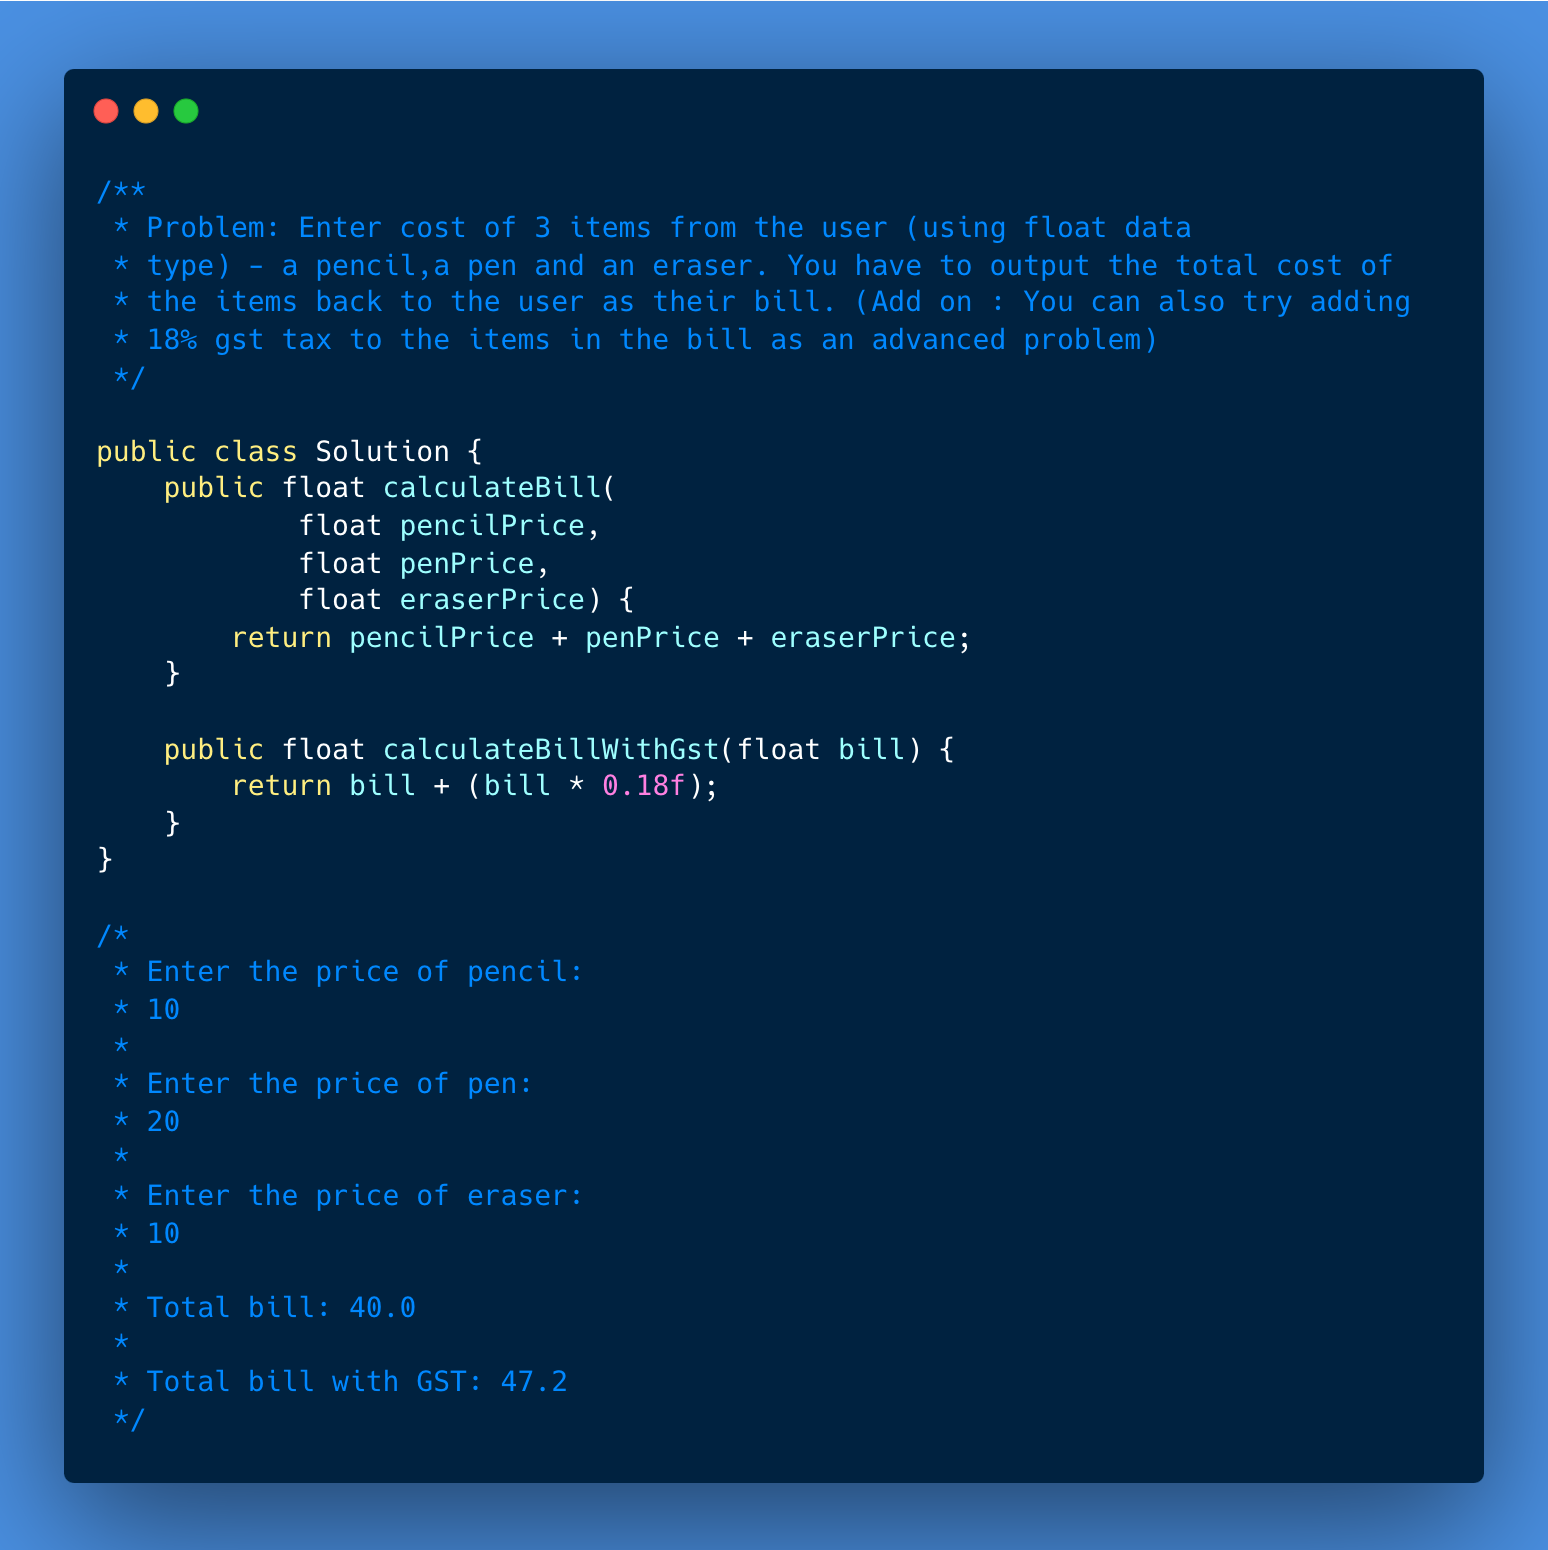
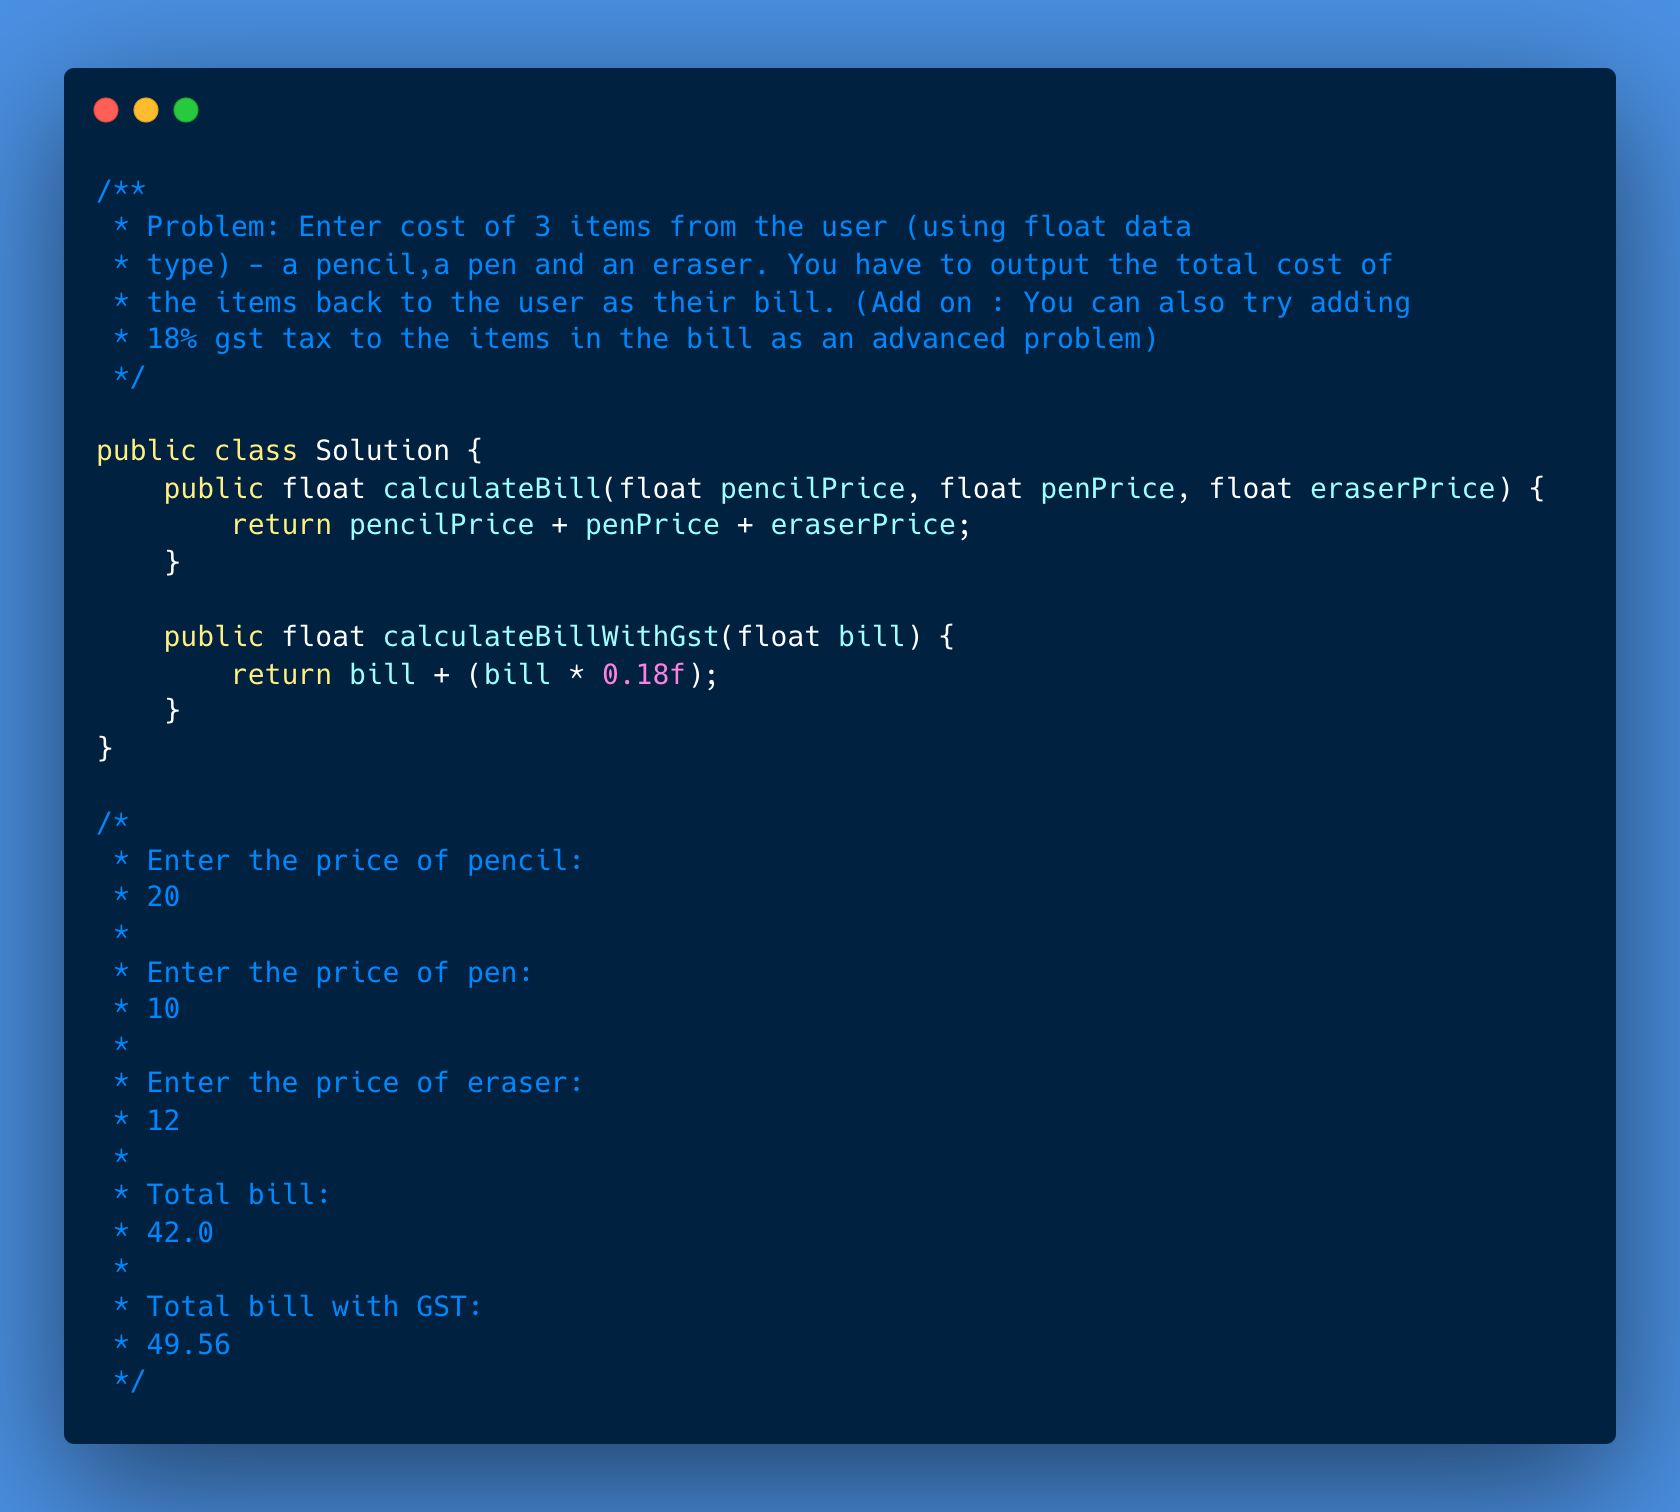
update for problem 6

diff --git a/006-calculate-bill-gst/001-solution/Solution.java b/006-calculate-bill-gst/001-solution/Solution.java
@@ -6,10 +6,7 @@
  */
 
 public class Solution {
-    public float calculateBill(
-            float pencilPrice,
-            float penPrice,
-            float eraserPrice) {
+    public float calculateBill(float pencilPrice, float penPrice, float eraserPrice) {
         return pencilPrice + penPrice + eraserPrice;
     }
 
@@ -20,15 +17,17 @@ public class Solution {
 
 /*
  * Enter the price of pencil:
- * 10
- * 
- * Enter the price of pen:
  * 20
  * 
- * Enter the price of eraser:
+ * Enter the price of pen:
  * 10
  * 
- * Total bill: 40.0
+ * Enter the price of eraser:
+ * 12
  * 
- * Total bill with GST: 47.2
+ * Total bill:
+ * 42.0
+ * 
+ * Total bill with GST:
+ * 49.56
  */

diff --git a/006-calculate-bill-gst/001-solution/Main.java b/006-calculate-bill-gst/001-solution/Main.java
@@ -23,9 +23,11 @@ public class Main {
 
         // Output - Main Problem
         System.out.println();
-        System.out.println("Total bill: " + total);
+        System.out.println("Total bill:");
+        System.out.println(total);
         System.out.println();
-        System.out.println("Total bill with GST: " + totalWithGst);
+        System.out.println("Total bill with GST:");
+        System.out.println(totalWithGst);
 
         sc.close();
     }
